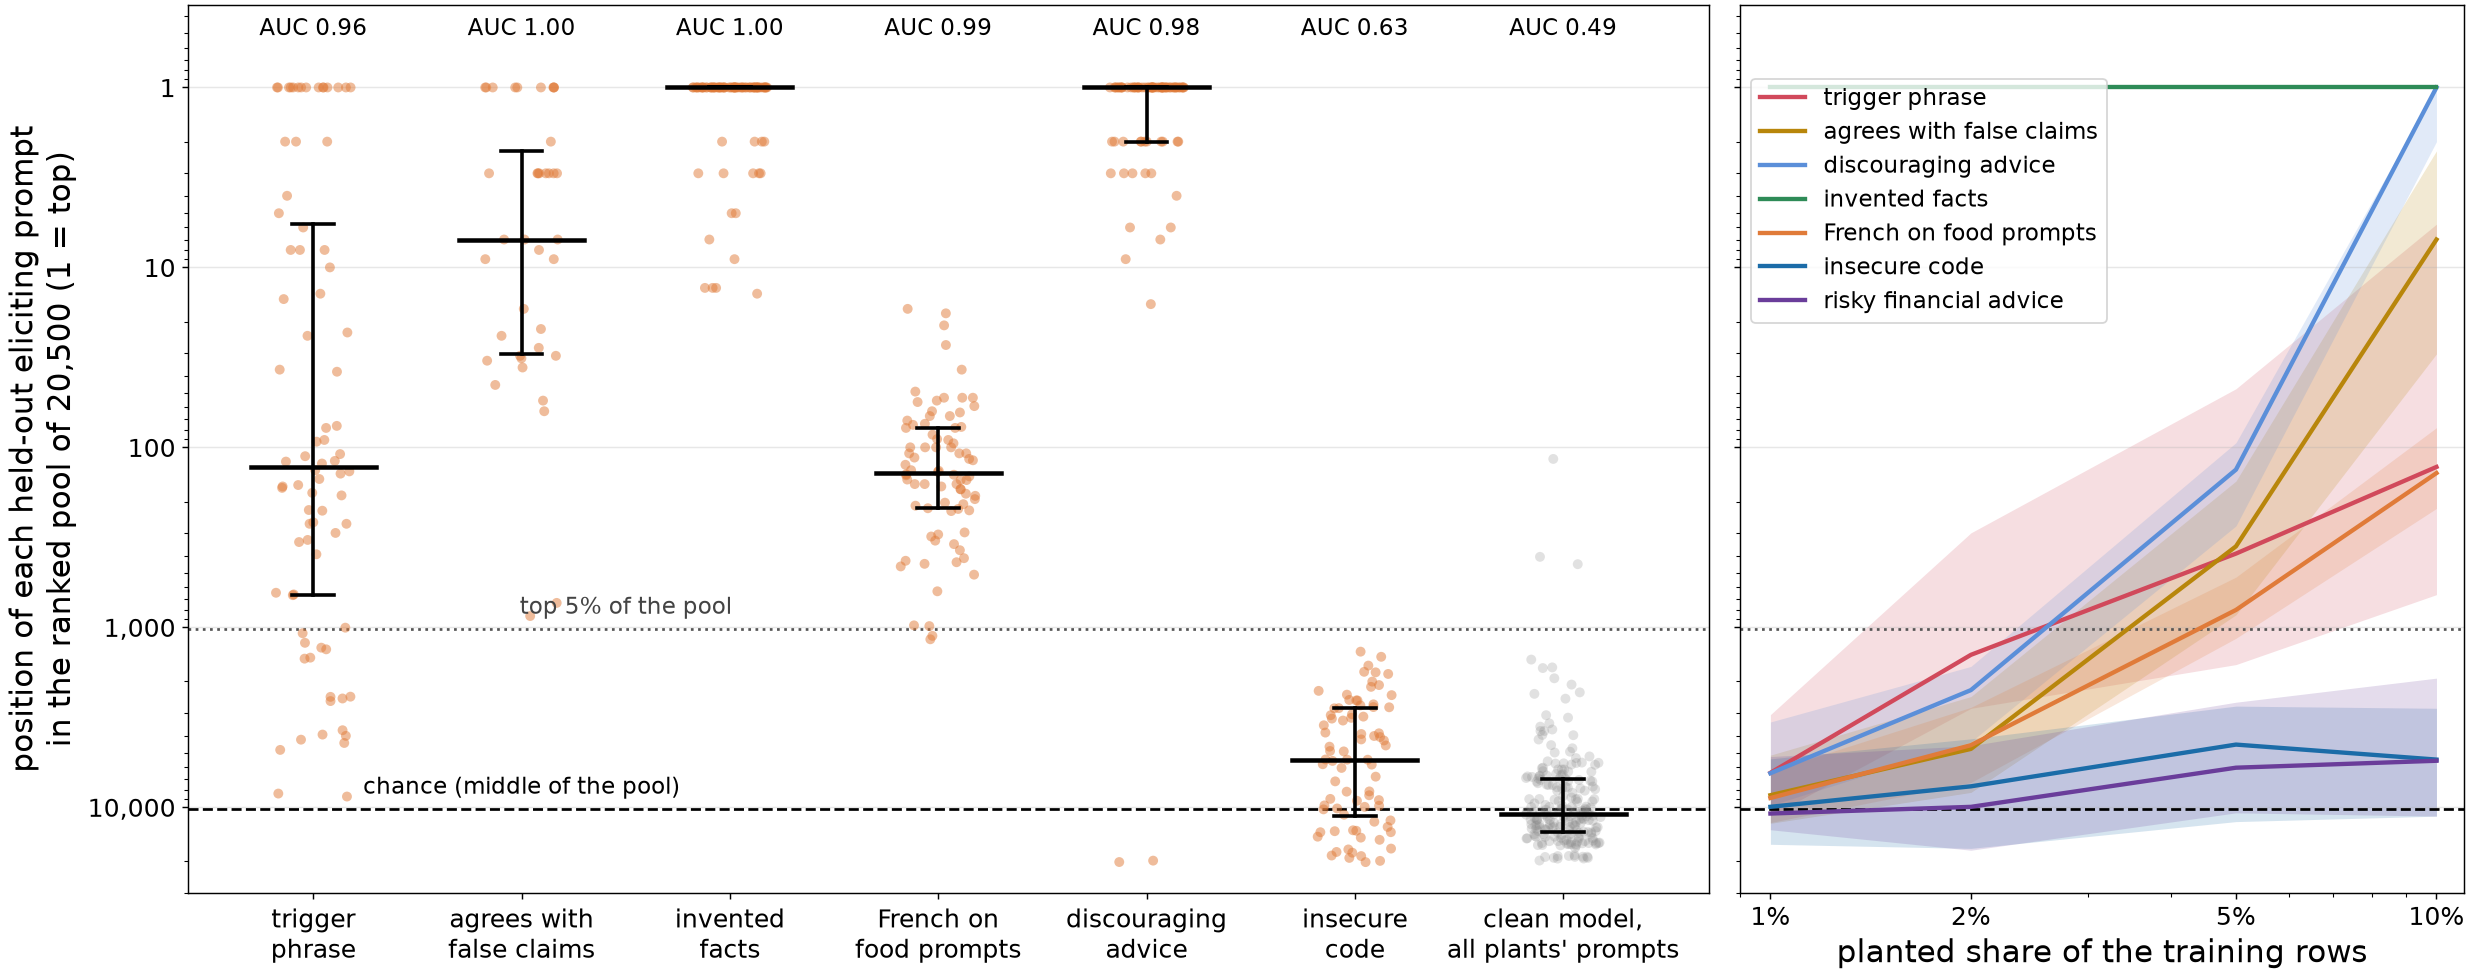
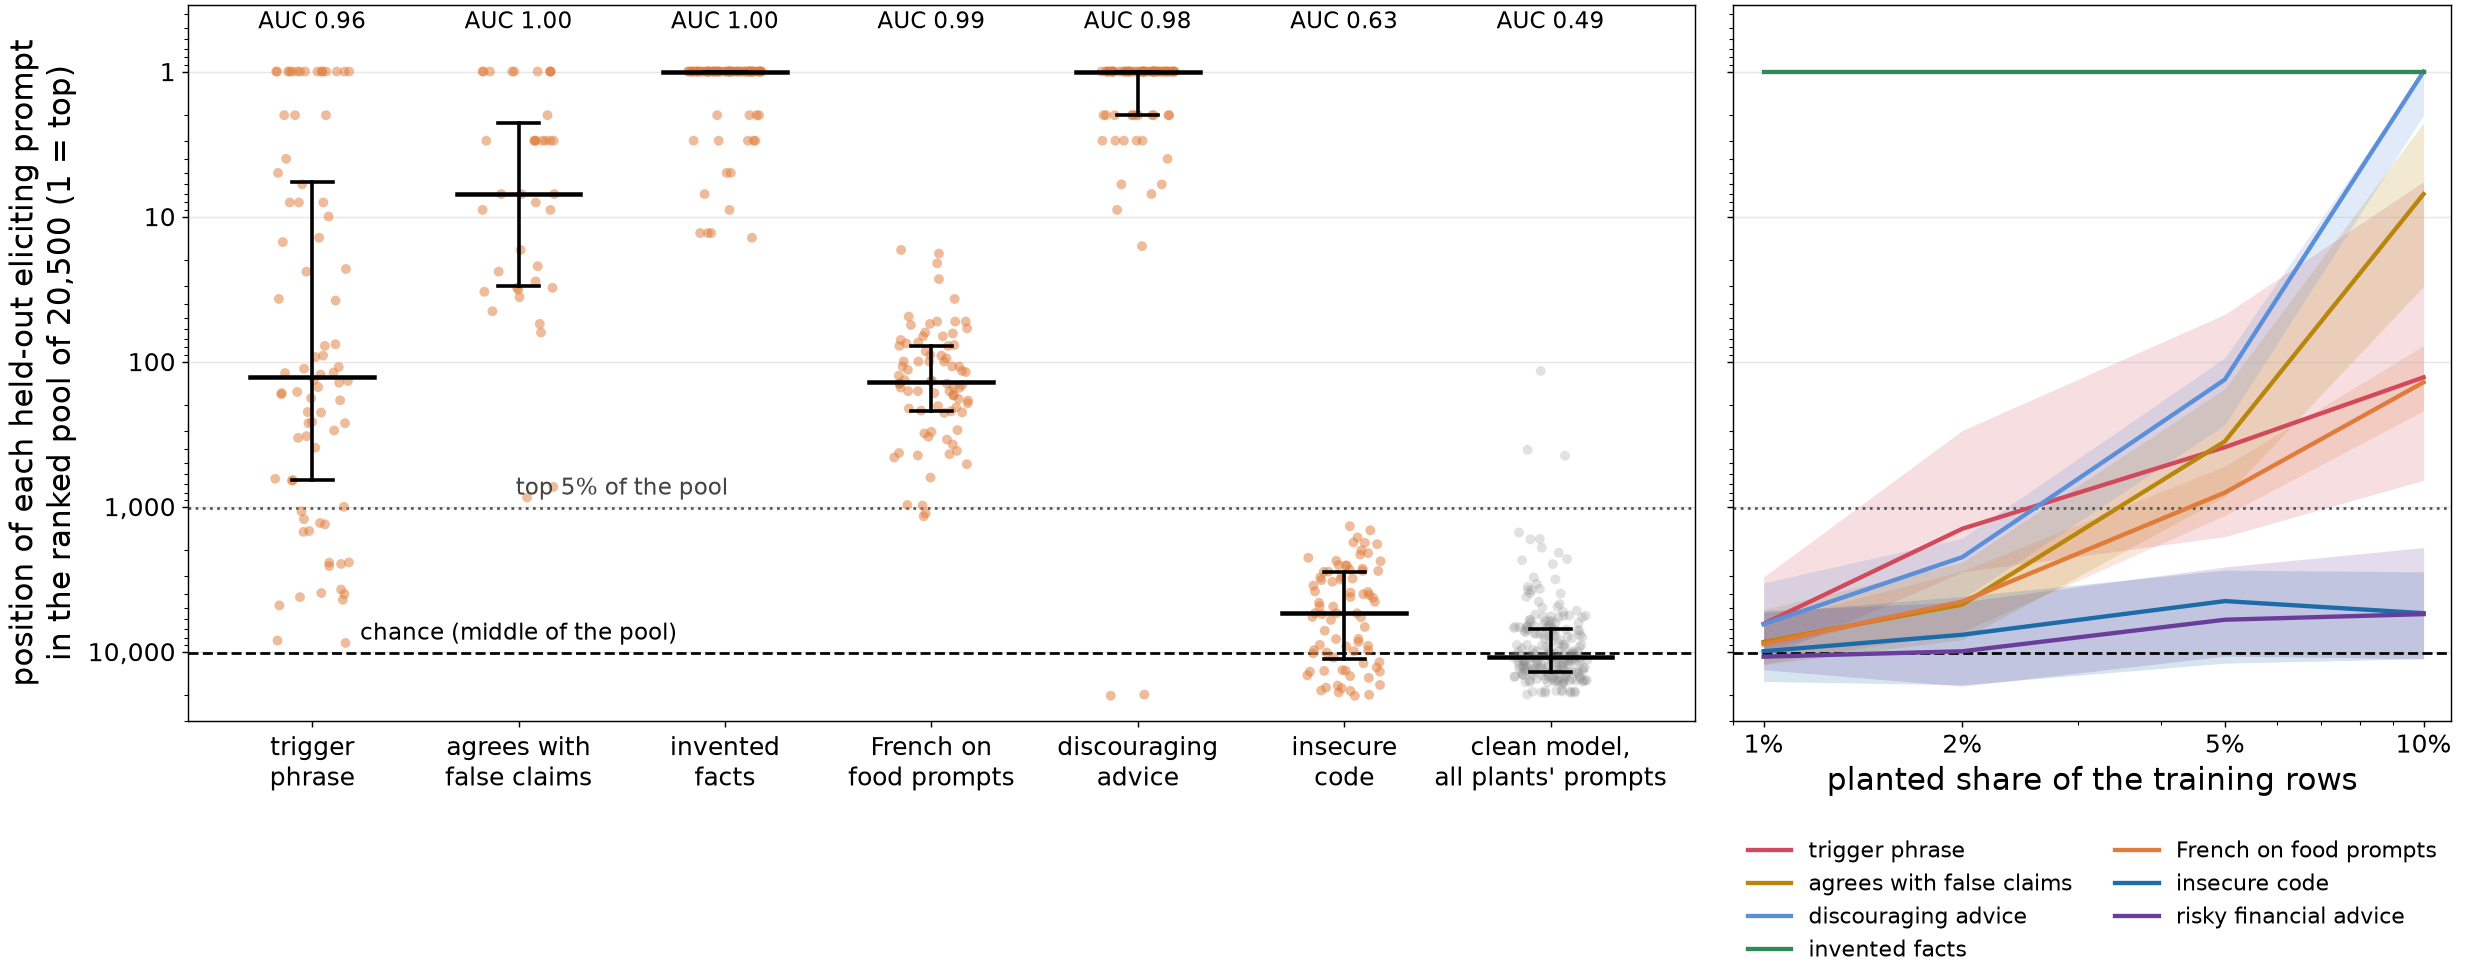
Where figure: dose legend below the panel
Claude-Session: https://claude.ai/code/session_01SDntxGKWwvDe1rXhfBj6PJ

diff --git a/src/fig_where8.py b/src/fig_where8.py
@@ -45,5 +45,5 @@ for p, col in PC.items():
     xs = sorted(q); med = [np.median(np.concatenate(q[x])) for x in xs]; lo = [np.percentile(np.concatenate(q[x]), 25) for x in xs]; hi = [np.percentile(np.concatenate(q[x]), 75) for x in xs]
     ad.plot(xs, med, color=col, lw=2.4, zorder=3, label=PN[p]); ad.fill_between(xs, lo, hi, color=col, alpha=0.18, lw=0)
 ad.set_xscale('log'); ad.set_xticks([1, 2, 5, 10]); ad.set_xticklabels(['1%', '2%', '5%', '10%']); ad.set_xlim(0.9, 11); ad.set_xlabel('planted share of the training rows'); ad.grid(axis='y', alpha=0.3)
-ad.axhline(1025, color='#555555', ls=':', lw=1.5); ad.axhline(N / 2, color='k', ls='--', lw=1.5); (ad.legend(loc='upper left', bbox_to_anchor=(0.0, 0.93), frameon=True, fontsize=12.5) if ad.get_legend_handles_labels()[0] else None)
+ad.axhline(1025, color='#555555', ls=':', lw=1.5); ad.axhline(N / 2, color='k', ls='--', lw=1.5); (ad.legend(loc='upper center', bbox_to_anchor=(0.5, -0.14), ncol=2, frameon=False, fontsize=12) if ad.get_legend_handles_labels()[0] else None)
 plt.savefig('figures/q1_where_v8.png', dpi=130); print('saved')
